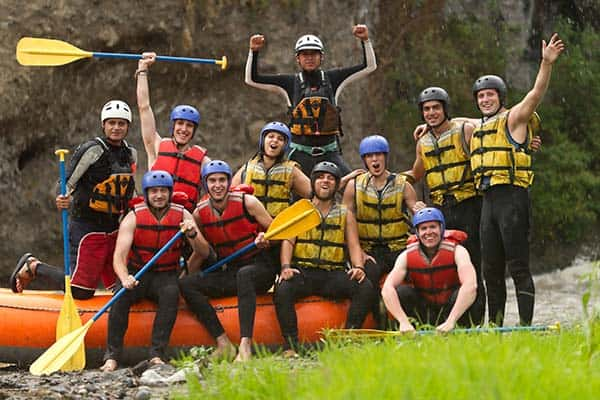
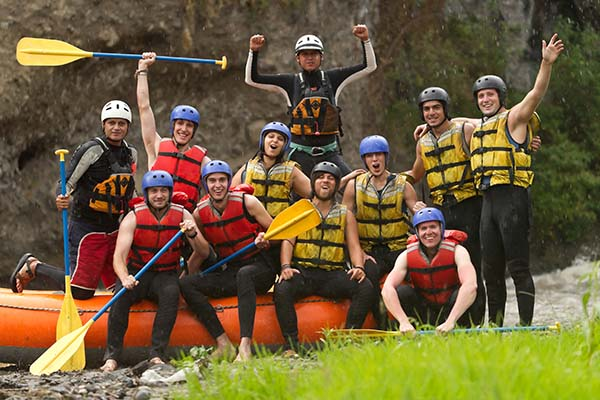
sync the code

diff --git a/wwr/about.html b/wwr/about.html
@@ -30,21 +30,17 @@
             <article>
                 <img src="images/happy-client.jpg" alt="happy-client">
                 <p>Company Purpose: To act as a catalyst for human connection and personal growth by
-                    immersing people in
-                    the raw, untamed power of the river, creating memories that flow long after the
-                    ride
-                    is over.
+                    immersing people in the raw, untamed power of the river, creating memories that
+                    flow long after the ride is over.
                     Mission Statement: Our mission is to provide world-class, adrenaline-pumping
                     river
-                    experiences that
-                    prioritize safety above all else. We are dedicated to preserving the natural
+                    experiences that prioritize safety above all else. We are dedicated to
+                    preserving the natural
                     ecosystems we explore, empowering our guests to conquer their fears, and
-                    fostering a
-                    deep respect for the
-                    great outdoors through expert guidance and unmatched hospitality.
+                    fostering a deep respect for the great outdoors through expert guidance and
+                    unmatched hospitality.
                     Vision Statement: To be the premier adventure company known globally not just
-                    for
-                    the rapids we
+                    for the rapids we
                     conquer, but for the community we build and the wild places we protect.</p>
             </article>
         </div>
